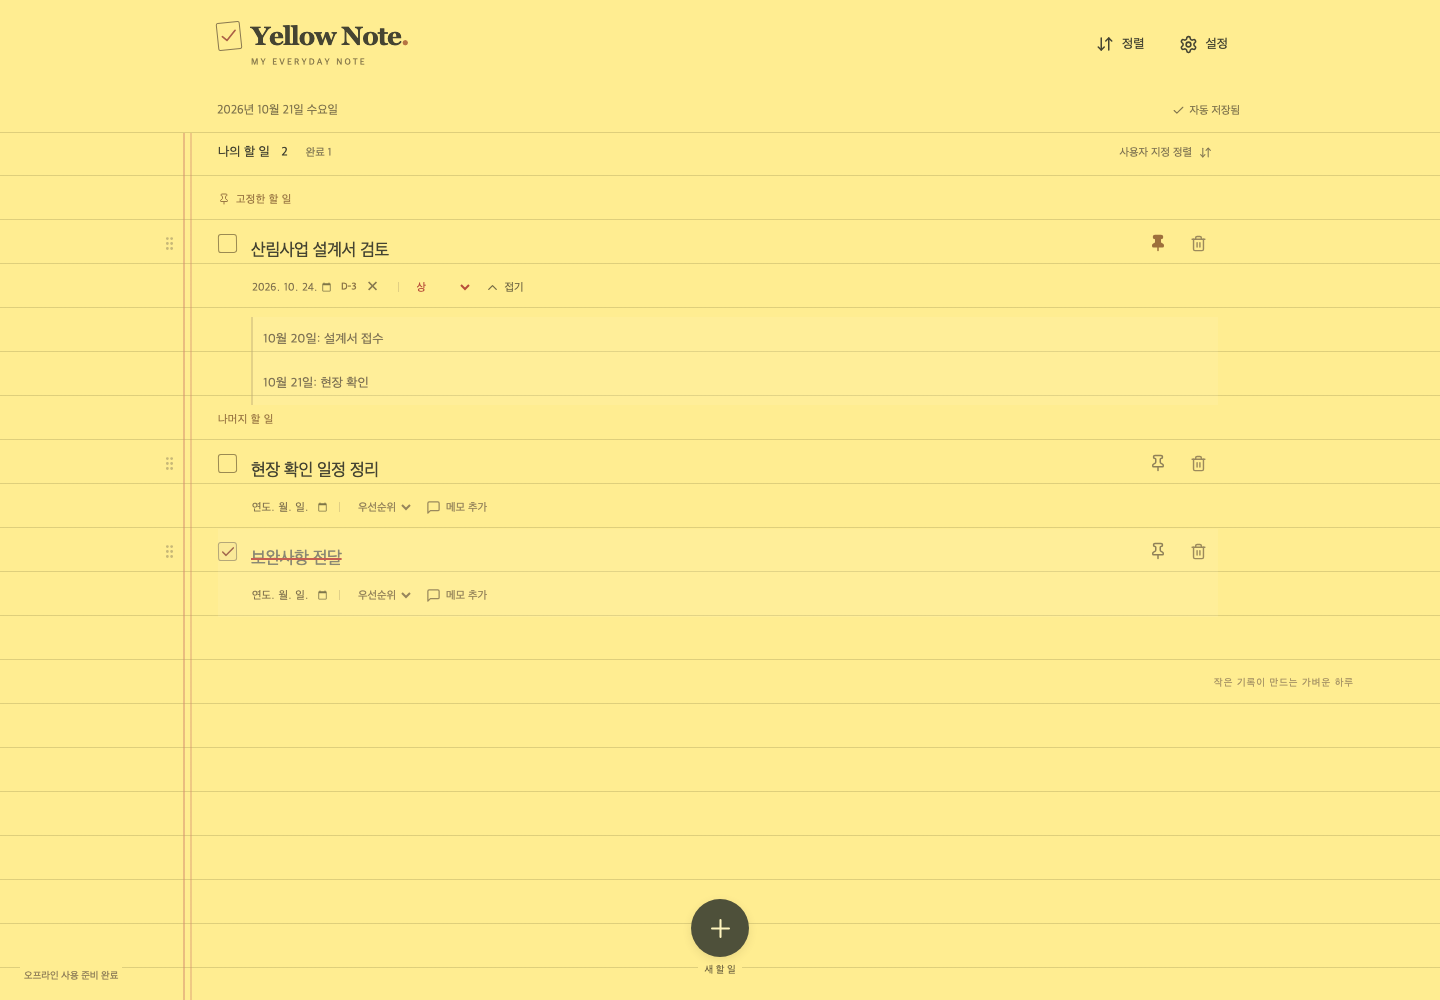
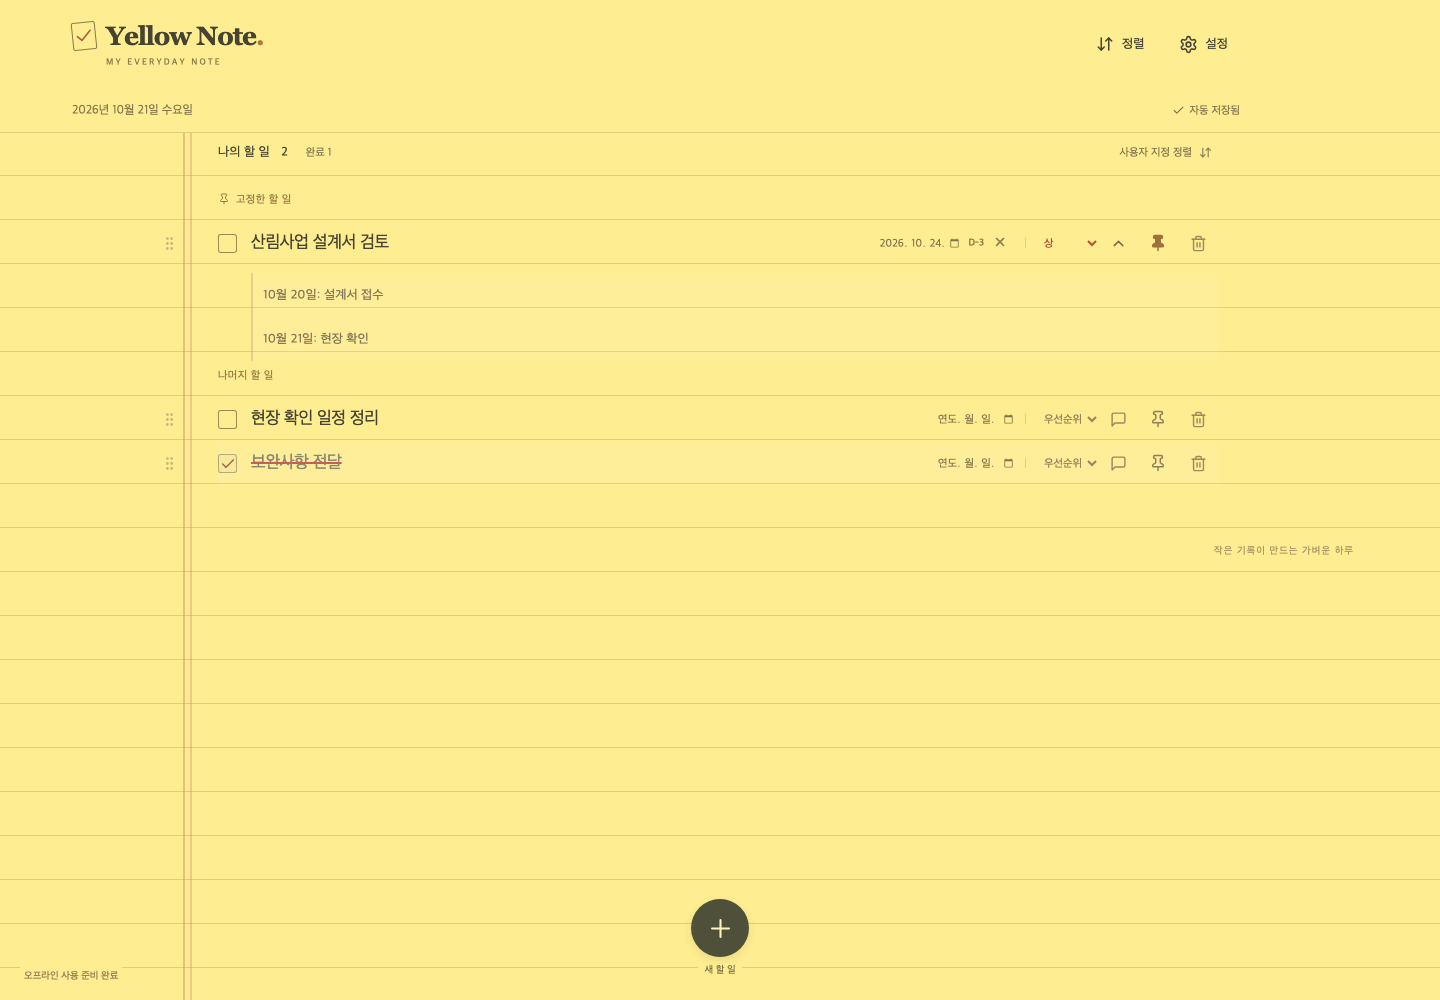
Refine single-line task layout and toolbar

diff --git a/src/components/TaskRow.tsx b/src/components/TaskRow.tsx
@@ -30,7 +30,7 @@ export function TaskRow({
   onDelete: () => void;
 }) {
   const [memoOpen, setMemoOpen] = useState(false);
-  const title = useRef<HTMLTextAreaElement>(null),
+  const title = useRef<HTMLInputElement>(null),
     memo = useRef<HTMLTextAreaElement>(null);
   const {
     attributes,
@@ -43,19 +43,8 @@ export function TaskRow({
     isOver,
   } = useSortable({ id: task.id });
   useLayoutEffect(() => {
-    resize(title.current);
-  }, [task.title]);
-  useLayoutEffect(() => {
     resize(memo.current);
   }, [task.memo, memoOpen]);
-  useLayoutEffect(() => {
-    const observer = new ResizeObserver(() => {
-      resize(title.current);
-      resize(memo.current);
-    });
-    if (title.current) observer.observe(title.current);
-    return () => observer.disconnect();
-  }, []);
   useLayoutEffect(() => {
     if (autoFocus) {
       title.current?.focus();
@@ -109,15 +98,21 @@ export function TaskRow({
           />
           <span>{task.completed && <Check size={16} strokeWidth={2.2} />}</span>
         </label>
-        <textarea
+        <input
           ref={title}
+          type="text"
           className="task-title"
-          rows={1}
           aria-label="할 일 제목"
           spellCheck={false}
           placeholder="새로운 할 일을 적어 보세요"
-          value={task.title}
+          value={task.title.replace(/[\r\n]+/g, " ")}
           onChange={(e) => updateTask(task.id, { title: e.target.value })}
+          onKeyDown={(e) => {
+            if (e.key === "Enter" && !e.nativeEvent.isComposing) {
+              e.preventDefault();
+              e.currentTarget.blur();
+            }
+          }}
           onBlur={() => {
             void flush().catch(() => {});
           }}
@@ -131,7 +126,67 @@ export function TaskRow({
             );
           }}
         />
+        <div className="task-details">
+          <label className="date-control">
+            <span className="sr-only">기한</span>
+            <input
+              type="date"
+              aria-label="기한"
+              min="1000-01-01"
+              max="9999-12-31"
+              value={task.dueDate || ""}
+              onChange={(e) => {
+                if (!e.target.value || validDate(e.target.value))
+                  updateTask(task.id, { dueDate: e.target.value || null }, true);
+              }}
+            />
+          </label>
+          {task.dueDate && (
+            <>
+              <span
+                className={`d-day ${!task.completed && dayDifference(task.dueDate, today) < 0 ? "overdue" : ""}`}
+              >
+                {dDay(task.dueDate, today)}
+              </span>
+              <button
+                className="clear-date"
+                aria-label="기한 지우기"
+                onClick={() => updateTask(task.id, { dueDate: null }, true)}
+              >
+                ×
+              </button>
+            </>
+          )}
+          <span className="detail-divider" />
+          <select
+            className={`priority ${task.priority || ""}`}
+            aria-label="우선순위"
+            value={task.priority || ""}
+            onChange={(e) =>
+              updateTask(
+                task.id,
+                { priority: (e.target.value || null) as Priority },
+                true,
+              )
+            }
+          >
+            <option value="">우선순위</option>
+            <option value="high">상</option>
+            <option value="medium">중</option>
+            <option value="low">하</option>
+          </select>
+        </div>
         <div className="row-actions">
+          <button
+            className={`icon-button memo-toggle ${task.memo ? "has-memo" : ""}`}
+            aria-label={memoOpen ? "접기" : task.memo ? "메모" : "메모 추가"}
+            title={memoOpen ? "메모 접기" : "메모 열기"}
+            aria-expanded={memoOpen}
+            aria-controls={`memo-${task.id}`}
+            onClick={() => setMemoOpen(!memoOpen)}
+          >
+            {memoOpen ? <ChevronUp size={17} /> : <MessageSquare size={17} />}
+          </button>
           <button
             className={`icon-button pin ${task.pinned ? "active" : ""}`}
             aria-label={`${label} ${task.pinned ? "고정 해제" : "상단 고정"}`}
@@ -148,65 +203,6 @@ export function TaskRow({
             <Trash2 size={17} />
           </button>
         </div>
-      </div>
-      <div className="task-details">
-        <label className="date-control">
-          <span className="sr-only">기한</span>
-          <input
-            type="date"
-            aria-label="기한"
-            min="1000-01-01"
-            max="9999-12-31"
-            value={task.dueDate || ""}
-            onChange={(e) => {
-              if (!e.target.value || validDate(e.target.value))
-                updateTask(task.id, { dueDate: e.target.value || null }, true);
-            }}
-          />
-        </label>
-        {task.dueDate && (
-          <>
-            <span
-              className={`d-day ${!task.completed && dayDifference(task.dueDate, today) < 0 ? "overdue" : ""}`}
-            >
-              {dDay(task.dueDate, today)}
-            </span>
-            <button
-              className="clear-date"
-              aria-label="기한 지우기"
-              onClick={() => updateTask(task.id, { dueDate: null }, true)}
-            >
-              ×
-            </button>
-          </>
-        )}
-        <span className="detail-divider" />
-        <select
-          className={`priority ${task.priority || ""}`}
-          aria-label="우선순위"
-          value={task.priority || ""}
-          onChange={(e) =>
-            updateTask(
-              task.id,
-              { priority: (e.target.value || null) as Priority },
-              true,
-            )
-          }
-        >
-          <option value="">우선순위</option>
-          <option value="high">상</option>
-          <option value="medium">중</option>
-          <option value="low">하</option>
-        </select>
-        <button
-          className={`memo-toggle ${task.memo ? "has-memo" : ""}`}
-          aria-expanded={memoOpen}
-          aria-controls={`memo-${task.id}`}
-          onClick={() => setMemoOpen(!memoOpen)}
-        >
-          {memoOpen ? <ChevronUp size={15} /> : <MessageSquare size={15} />}
-          <span>{memoOpen ? "접기" : task.memo ? "메모" : "메모 추가"}</span>
-        </button>
       </div>
       {memoOpen && (
         <div className="memo-area" id={`memo-${task.id}`}>

diff --git a/src/styles.css b/src/styles.css
@@ -99,7 +99,7 @@ select {
   grid-template-columns: minmax(0, 1fr) auto;
   grid-template-rows: 88px 44px;
   align-items: center;
-  padding: 0 clamp(20px, 5vw, 72px) 0 calc(var(--margin) + 27px);
+  padding: 0 clamp(20px, 5vw, 72px);
   background: var(--paper);
   border-bottom: 1px solid var(--rule);
   position: relative;
@@ -227,7 +227,7 @@ select {
 }
 .task-row {
   position: relative;
-  min-height: 88px;
+  min-height: 44px;
   transition: background 0.15s;
 }
 .task-row:hover {
@@ -235,7 +235,7 @@ select {
 }
 .task-main {
   display: flex;
-  align-items: flex-start;
+  align-items: center;
   position: relative;
   min-height: 44px;
 }
@@ -299,9 +299,8 @@ select {
   display: block;
   flex: 1;
   min-width: 0;
+  height: 44px;
   border: 0;
-  resize: none;
-  overflow: hidden;
   background: transparent;
   padding: 0 8px 0 0;
   line-height: 44px;
@@ -319,6 +318,7 @@ select {
 }
 .row-actions {
   display: flex;
+  flex-shrink: 0;
 }
 .pin.active {
   color: #9e703c;
@@ -343,8 +343,9 @@ select {
   min-height: 44px;
   display: flex;
   align-items: center;
-  flex-wrap: wrap;
-  padding-left: 33px;
+  flex-shrink: 0;
+  flex-wrap: nowrap;
+  padding-left: 0;
   gap: 0 9px;
   color: #938157;
   font-size: 11px;
@@ -410,13 +411,7 @@ select {
   color: #597d49;
 }
 .memo-toggle {
-  display: flex;
-  gap: 5px;
-  align-items: center;
-  height: 44px;
-  font-size: 11px;
   color: #9a895d;
-  padding: 0 5px;
 }
 .memo-toggle.has-memo {
   color: #766c46;
@@ -726,6 +721,21 @@ textarea {
     padding-right: max(72px, calc(100vw - 1240px));
   }
 }
+@media (max-width: 900px) {
+  .task-main {
+    flex-wrap: wrap;
+  }
+  .task-details {
+    order: 4;
+    flex-basis: 100%;
+    min-width: 0;
+    padding-left: 33px;
+    flex-wrap: wrap;
+  }
+  .row-actions {
+    order: 3;
+  }
+}
 @media (max-width: 700px) {
   :root {
     --margin: 38px;
@@ -798,11 +808,6 @@ textarea {
     max-width: 65px;
     padding: 0;
   }
-  .memo-toggle {
-    font-size: 10px;
-    gap: 4px;
-    padding: 0 2px;
-  }
   .d-day {
     font-size: 9px;
   }
@@ -866,9 +871,6 @@ textarea {
   .task-details {
     gap: 0 4px;
   }
-  .memo-toggle span {
-    font-size: 9px;
-  }
 }
 @media (prefers-reduced-motion: reduce) {
   *,
@@ -879,8 +881,7 @@ textarea {
     scroll-behavior: auto !important;
   }
 }
-/* Keep writing baselines just above the paper rules, including wrapped lines. */
-.task-title,
+/* Keep memo writing baselines just above the paper rules. */
 .memo-area textarea {
   position: relative;
   top: 8px;

diff --git a/tests/e2e/app.spec.ts b/tests/e2e/app.spec.ts
@@ -1,4 +1,38 @@
 import { test, expect } from "@playwright/test";
+test("한 줄 제목과 화면 너비에 따른 행 배치", async ({ page }) => {
+  await page.setViewportSize({ width: 1200, height: 900 });
+  await page.goto("/");
+  await page.getByRole("button", { name: "새 할 일 추가" }).click();
+  const row = page.getByTestId("task-row");
+  const title = row.getByLabel("할 일 제목", { exact: true });
+  await expect(title).toHaveAttribute("type", "text");
+  await title.fill("한 줄 업무");
+  await title.press("Enter");
+  await expect(title).not.toBeFocused();
+  await expect(title).toHaveValue("한 줄 업무");
+  const position = async () =>
+    row.evaluate((element) => {
+      const box = (selector: string) =>
+        element.querySelector(selector)!.getBoundingClientRect();
+      return {
+        title: box(".task-title").top,
+        due: box(".date-control").top,
+        priority: box(".priority").top,
+        memo: box(".memo-toggle").left,
+        pin: box(".pin").left,
+      };
+    });
+  let bounds = await position();
+  expect(bounds.due).toBe(bounds.title);
+  expect(bounds.priority).toBe(bounds.title);
+  expect(bounds.memo).toBeLessThan(bounds.pin);
+  expect(await page.locator(".app-header").evaluate((element) => element.getBoundingClientRect().left)).toBe(0);
+  await page.setViewportSize({ width: 393, height: 852 });
+  bounds = await position();
+  expect(bounds.due).toBeGreaterThan(bounds.title);
+  expect(bounds.priority).toBeGreaterThan(bounds.title);
+  expect(await page.evaluate(() => document.documentElement.scrollWidth <= innerWidth)).toBe(true);
+});
 test("할 일 편집, 메모, 핀, 완료 숨김, 재접속, 삭제", async ({ page }) => {
   await page.goto("/");
   await page

diff --git a/README.md b/README.md
@@ -29,7 +29,7 @@ npm run preview
 ## 2. 기본 사용법
 
 - 하단 **+**: 새 줄을 만들고 바로 제목 입력을 시작합니다. 0.5초 내 연속 누르기를 막으며, 제목이 빈 미완료 줄이 이미 있으면 그 줄로 이동합니다. 빈 제목도 초안으로 보관되며 휴지통으로 삭제할 수 있습니다.
-- 제목: 클릭해서 직접 수정합니다. 긴 제목은 자동 줄바꿈됩니다.
+- 제목: 클릭해서 한 줄로 직접 수정합니다. Enter를 누르면 입력이 완료됩니다.
 - 날짜: 기한을 지정합니다. `×` 버튼으로 기한을 지울 수 있습니다. D-3은 3일 남음, D-Day는 오늘, D+2는 2일 지남입니다.
 - 우선순위: 상(빨강), 중(주황), 하(초록), 미설정 중 선택합니다.
 - 핀: 우선순위와 독립적으로 목록 상단에 고정합니다. 완료해도 핀은 유지됩니다.
